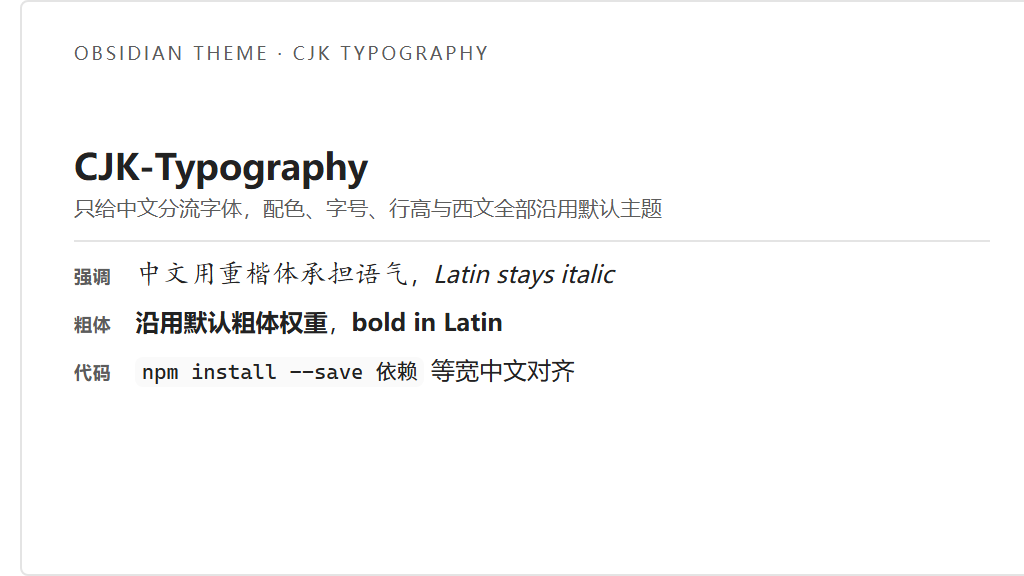
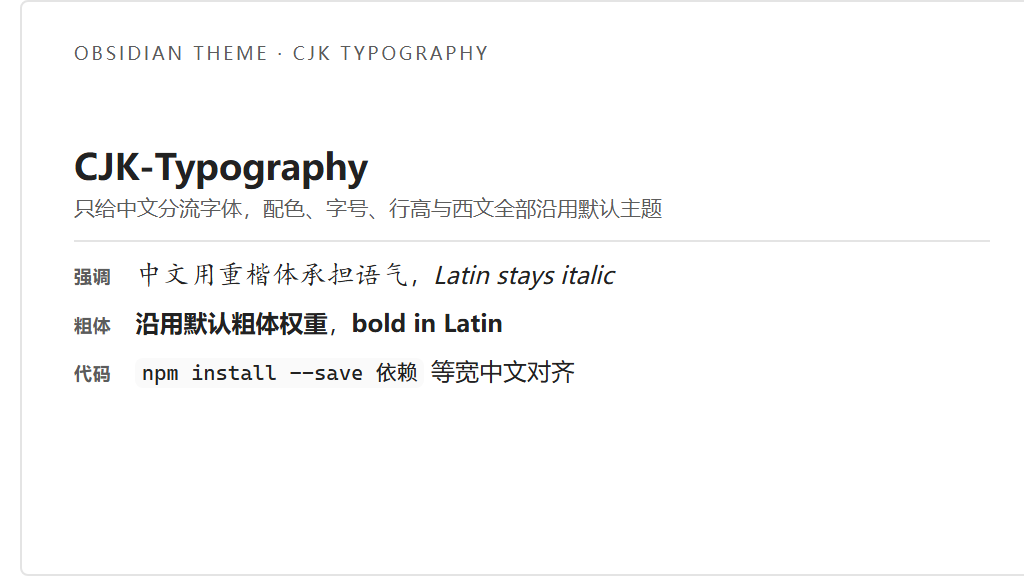
feat: em 楷体垂直微调旋钮 -0.06em（初版，供目测调整）

diff --git a/theme.css b/theme.css
@@ -39,9 +39,8 @@
 em,
 .cm-em {
   font-family: "CJK-Em", var(--font-text);
-  /* 不设 vertical-align：GB2312 一级字表 3755 字逐字实测，楷体与雅黑的
-     墨迹重心逐字方差达 ±10px@100px，任何全局偏移都只对部分字有效，
-     归零是最小最坏情况的折中（均值 0.4px、离群字 0.6px @16px）。 */
+  /* 楷体相对正文的垂直微调旋钮，按目测调整（当前 -0.06em） */
+  vertical-align: -0.06em;
   /* 只换字体：字重、颜色、italic 仍由默认主题决定 */
 }
 

diff --git a/cjk-typography.css b/cjk-typography.css
@@ -21,7 +21,8 @@
 em,
 .cm-em {
   font-family: "CJK-Em", var(--font-text);
-  /* 不设 vertical-align：逐字方差太大，全局偏移无意义（见 theme.css 注释） */
+  /* 楷体设计框浮在基线上方，微降 0.06em 对齐正文字面 */
+  vertical-align: -0.06em;
   /* 不设置 font-weight、font-style：完全继承 Obsidian 默认的 em 样式 */
 }
 
